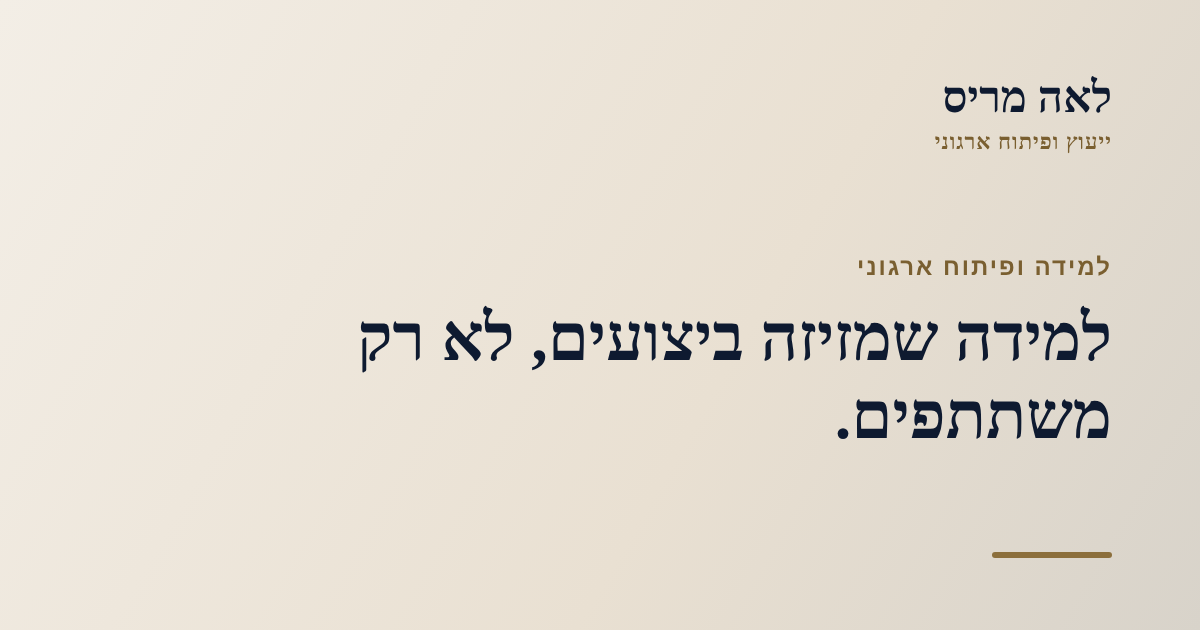
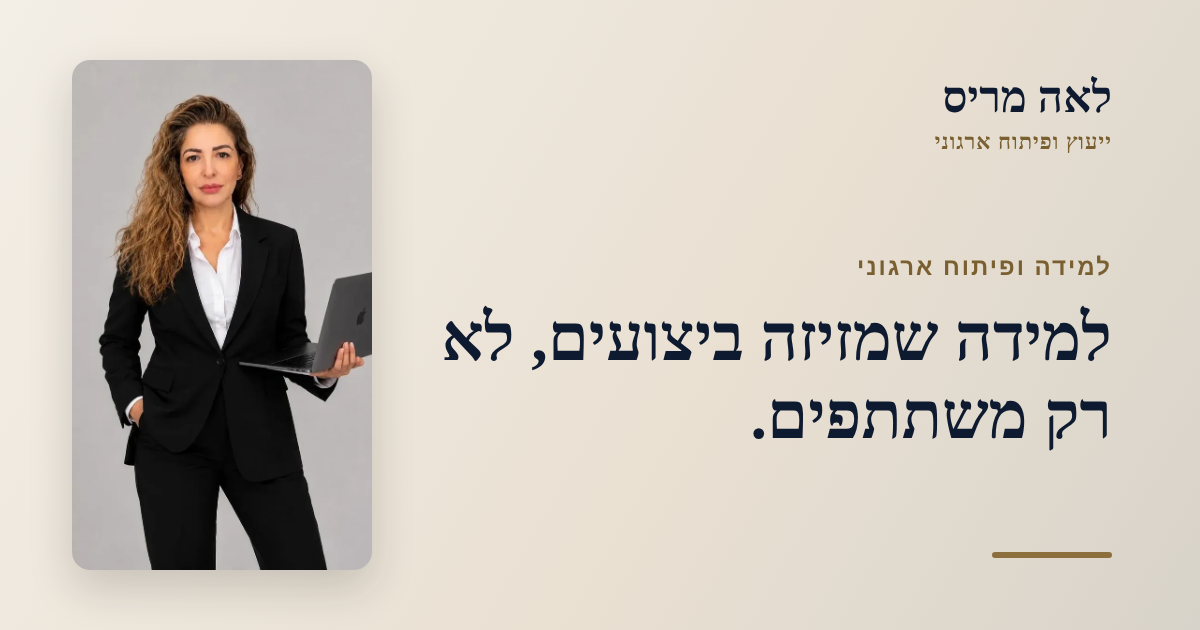
Add Lea's portraits as responsive WebP, photo in default share image
Hero uses the laptop portrait, About uses the interior portrait at its
natural ratio. Header background made fully opaque.

Claude-Session: https://claude.ai/code/session_012X2AdNgoQsQypaHCSU38n4

Changed region(s): [[0.0617, 0.0905, 0.37, 0.9349], [0.6167, 0.6333, 0.925, 0.7238], [0.555, 0.5127, 0.5858, 0.5429]]

diff --git a/src/components/blocks.tsx b/src/components/blocks.tsx
@@ -116,24 +116,29 @@ export function PlaceholderGate({ isPlaceholder, children }: { isPlaceholder: bo
   return cloneElement(children, { className: clsx(children.props.className, "placeholder-frame") });
 }
 
-export function Portrait({ which, className }: { which: "hero" | "about"; className?: string }) {
+export function Portrait({ which, className, sizes = "(min-width: 74rem) 16rem, 70vw", natural }: { which: "hero" | "about"; className?: string; sizes?: string; natural?: boolean }) {
   const img = IMAGES[which];
+  const eager = which === "hero";
   return (
-    <div className={clsx("relative mx-auto aspect-[4/5] w-full overflow-hidden rounded-[var(--radius-card)] bg-[linear-gradient(150deg,var(--color-beige),var(--color-gray-light))] shadow-[var(--shadow-strong)]", className)}>
-      {img ? (
-        <img
-          src={img.src}
-          width={img.width}
-          height={img.height}
-          alt="לאה מריס, יועצת ללמידה ופיתוח ארגוני"
-          loading={which === "hero" ? "eager" : "lazy"}
-          fetchPriority={which === "hero" ? "high" : undefined}
-          decoding="async"
-          className="size-full object-cover"
-        />
-      ) : (
-        <div aria-hidden="true" className="flex size-full items-center justify-center font-display text-6xl text-gold/60">ל מ</div>
+    <div
+      className={clsx(
+        "relative mx-auto w-full overflow-hidden rounded-[var(--radius-card)] bg-[linear-gradient(150deg,var(--color-beige),var(--color-gray-light))] shadow-[var(--shadow-strong)]",
+        !natural && "aspect-[4/5]",
+        className,
       )}
+    >
+      <img
+        src={img.src}
+        srcSet={img.srcSet}
+        sizes={sizes}
+        width={img.width}
+        height={img.height}
+        alt={img.alt}
+        loading={eager ? "eager" : "lazy"}
+        fetchPriority={eager ? "high" : undefined}
+        decoding="async"
+        className={clsx("w-full object-cover", natural ? "h-auto" : "h-full object-top")}
+      />
     </div>
   );
 }

diff --git a/src/lib/site.ts b/src/lib/site.ts
@@ -43,8 +43,21 @@ export const NAV = [
   { href: "/contact", label: "צרו קשר" },
 ] as const;
 
-// Images: null until the real files are added to public/images (see TODO.md).
-export const IMAGES = {
-  hero: null as null | { src: string; width: number; height: number },
-  about: null as null | { src: string; width: number; height: number },
+// Portraits. srcSet widths are generated in public/images (WebP).
+export type Img = { src: string; srcSet: string; width: number; height: number; alt: string };
+export const IMAGES: Record<"hero" | "about", Img> = {
+  hero: {
+    src: "/images/lea-hero-800.webp",
+    srcSet: "/images/lea-hero-480.webp 480w, /images/lea-hero-800.webp 800w",
+    width: 800,
+    height: 1088,
+    alt: "לאה מריס, יועצת ללמידה ופיתוח ארגוני",
+  },
+  about: {
+    src: "/images/lea-about-600.webp",
+    srcSet: "/images/lea-about-400.webp 400w, /images/lea-about-600.webp 600w",
+    width: 600,
+    height: 564,
+    alt: "לאה מריס",
+  },
 };

diff --git a/src/routes/home.tsx b/src/routes/home.tsx
@@ -44,7 +44,7 @@ export default function Home() {
         eyebrow="למידה ופיתוח ארגוני"
         title="למידה שמזיזה ביצועים, לא רק משתתפים."
         lead="אני בונה לארגונים ולמנהלים תוכניות למידה שנמדדות במה שקורה בעבודה, ולא בכמה אנשים ישבו בכיתה."
-        aside={<Portrait which="hero" className="max-w-[15rem]" />}
+        aside={<Portrait which="hero" sizes="(min-width: 74rem) 17rem, 15rem" className="max-w-[15rem] nav:max-w-[17rem]" />}
       >
         <p className="mb-9 max-w-[35rem] text-lg leading-relaxed">
           אני לאה מריס. יותר מ-15 שנה אני עובדת בתוך ארגונים, בניהול, במשאבי אנוש ובלמידה ארגונית, במגזר הציבורי ובעסקי. היום אני מנהלת למידה

diff --git a/src/components/Header.tsx b/src/components/Header.tsx
@@ -109,7 +109,7 @@ export function Header() {
   }, [open]);
 
   return (
-    <header className="fixed inset-x-0 top-0 z-[1000] border-b border-line bg-paper/[0.97]">
+    <header className="fixed inset-x-0 top-0 z-[1000] border-b border-line bg-paper">
       <div className="mx-auto flex max-w-[73.75rem] items-center justify-between gap-6 px-4.5 py-3 sm:px-5 nav:px-8 nav:py-3.5">
         <Link to="/" className="font-display text-[1.625rem] leading-none font-bold tracking-[0.5px] whitespace-nowrap text-ink sm:text-[1.75rem] nav:text-[1.875rem]">
           לאה מריס

diff --git a/src/routes/about.tsx b/src/routes/about.tsx
@@ -62,7 +62,7 @@ export default function About() {
               </p>
             </div>
           </div>
-          <Portrait which="about" className="max-w-[16rem] nav:mt-16" />
+          <Portrait which="about" natural sizes="(min-width: 74rem) 26rem, 90vw" className="max-w-[26rem] nav:mt-16" />
         </div>
       </section>
 

diff --git a/DESIGN.md b/DESIGN.md
@@ -212,7 +212,7 @@
 
 ## 8. החלטות שהתקבלו בזמן הבנייה
 
-- **Header בלי `backdrop-filter`:** באתר הקיים יש blur. הוא הופך את ה-header ל-containing block של המגירה במובייל, והמגירה נחתכה. הוחלף ברקע `--white-broken` באטימות 97%. ההבדל הוויזואלי זניח.
+- **Header בלי `backdrop-filter`:** באתר הקיים יש blur. הוא הופך את ה-header ל-containing block של המגירה במובייל, והמגירה נחתכה. הוחלף ברקע `--white-broken` אטום. ההבדל הוויזואלי זניח.
 - **בלי reveal ב-Hero:** אנימציית הכניסה הוסרה מהאזור העליון של כל עמוד, כי היא עיכבה את ה-LCP ביותר משנייה. כל שאר הסקשנים נכנסים באנימציה כמו באתר הקיים.
 - **גבול שדות טופס `#8f8676`:** הגבול `--line` (1.4:1) לא עומד בדרישת 3:1 לרכיבי ממשק. השדות מקבלים גבול כהה יותר (3.39:1).
 - **Preload לשני פונטים:** Heebo 400 ו-Frank Ruhl Libre 600 בעברית, כדי שהכותרת הראשית תוצג בפונט הנכון מוקדם.

diff --git a/TODO.md b/TODO.md
@@ -29,7 +29,7 @@
 - [ ] 4.1: פרטים נוספים (תעודה? מפגש חי?)
 
 ## נכסים וקבצים
-- [ ] **לשלוח את הקבצים** `lea-hero.webp` ו-`lea-about.webp` (אושר: אותן תמונות כמו באתר הקיים). הרשת בסביבת הפיתוח חוסמת את lovable.app
+- [x] תמונות: התקבלו ושולבו (`public/images/`, WebP בשני גדלים). התמונה עם המחשב בעמוד הבית ובתמונת השיתוף, התמונה בחלל המעוצב בעמוד אודות
 - [x] קובץ PDF של המשאב החינמי: נוצר (`public/downloads/before-you-book-training.pdf`). לעבור עליו ולאשר
 - [x] קישור לסוכן מצפן (מאמר 2): מפנה לאזור הסוכנים באתר הליווי האישי. אפשר להחליף בקישור ישיר
 - [x] תמונות OG: נוצרו לעמודים ולכל מאמר (`public/og/`)
